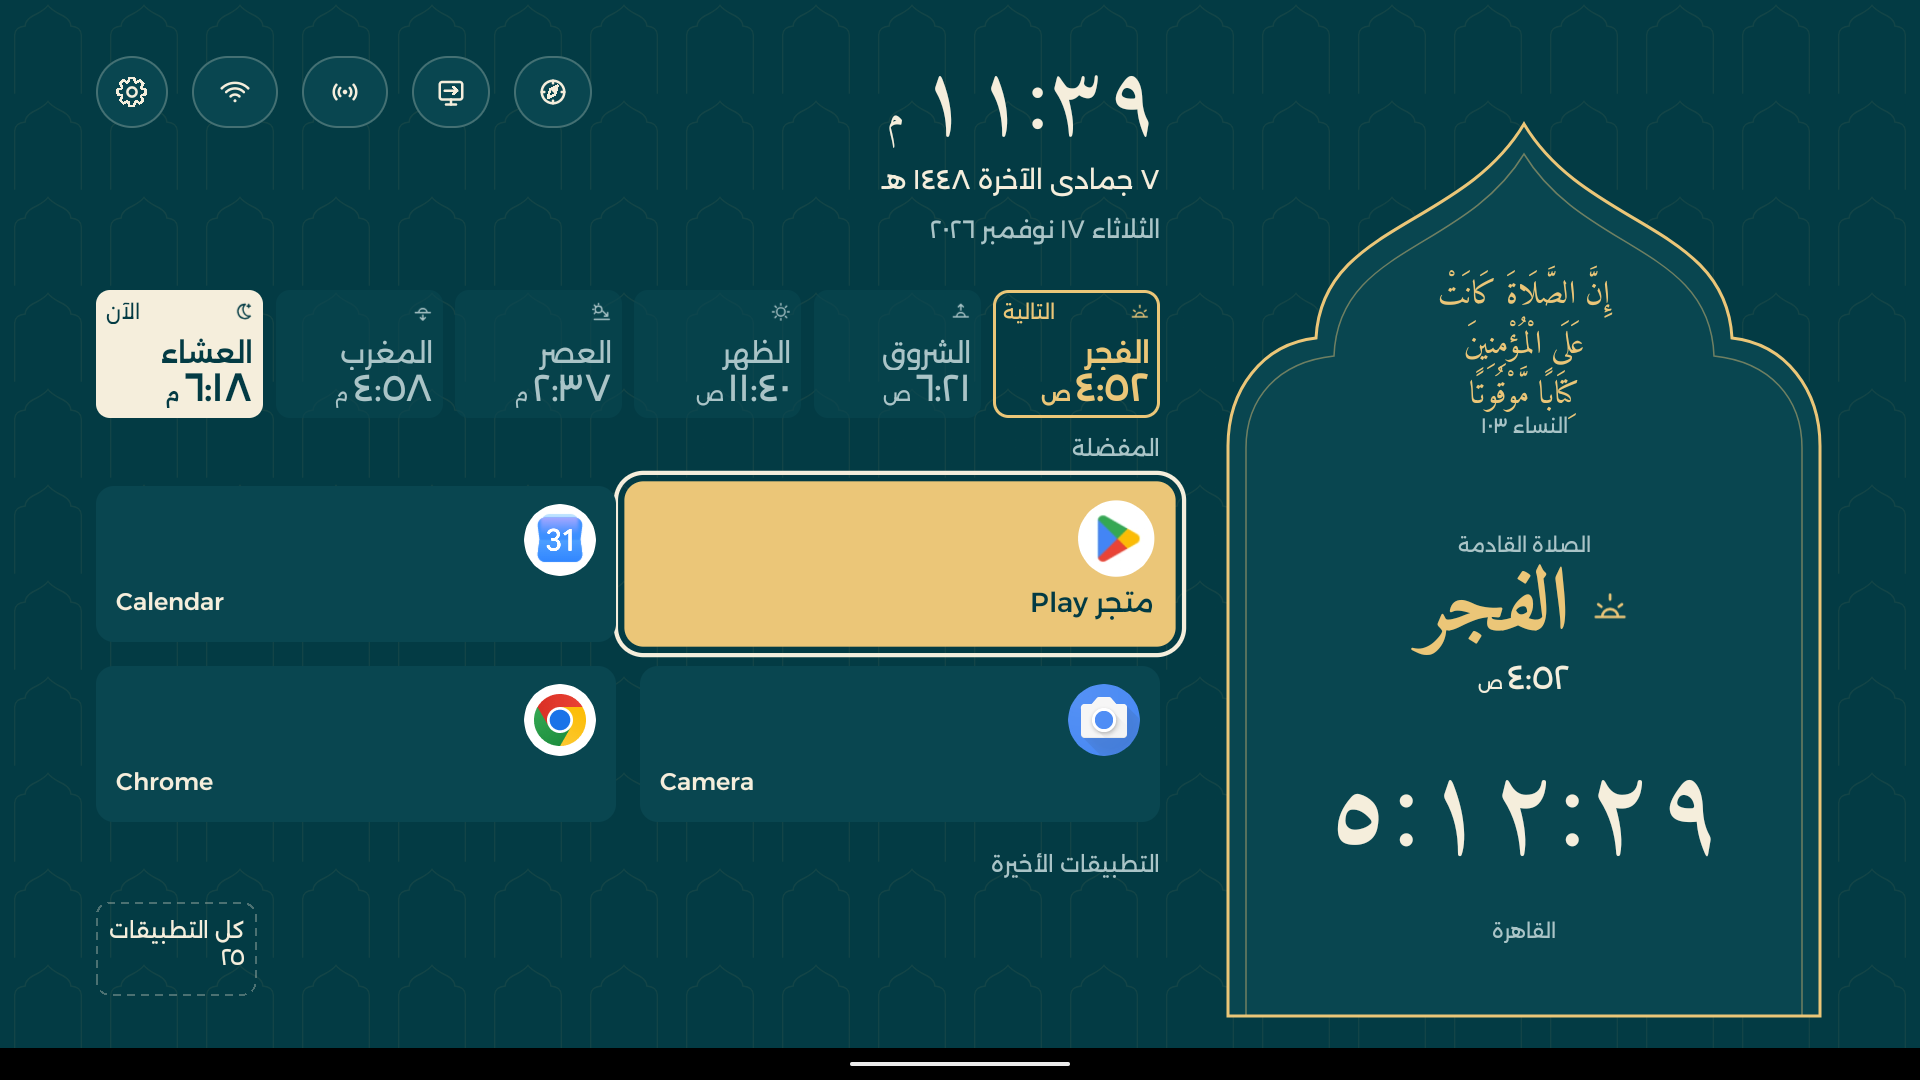
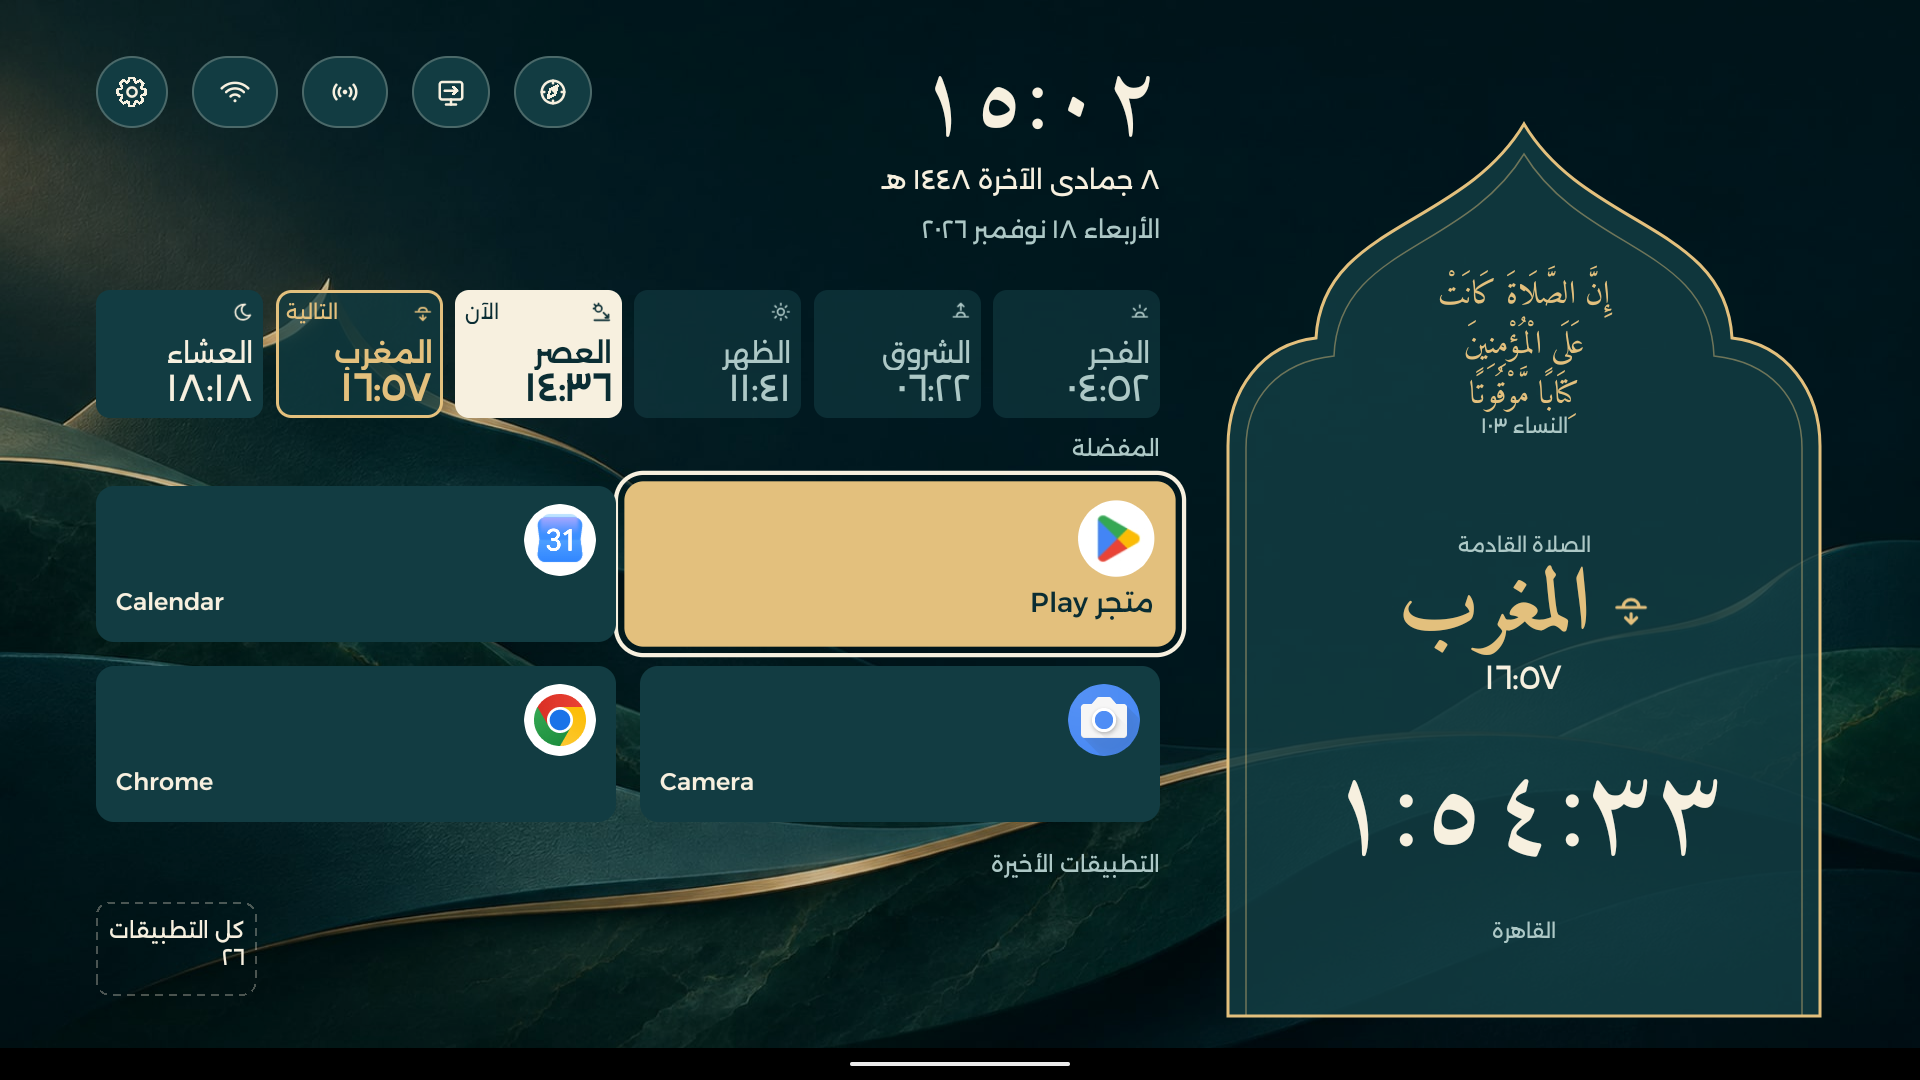
Refresh README with current Miqat branding

diff --git a/docs/WORK.md b/docs/WORK.md
@@ -4,25 +4,25 @@ Updated: 2026-11-18.
 
 ## Approved scope and next action
 
-Remove FFmpeg installation and the audio-processing fixture test from GitHub
-Actions. The owner chose to keep the existing Ubuntu builds, tests and triggers.
-Retain lightweight approved-media hashes and packaged-file checks. Preparation,
-decoding and listening checks remain local when media or preparation code changes.
+Refresh the README for the current Miqat branding. Remove its header icon and
+replace the old Android Home screenshots with the reviewed English/Arabic native
+captures. Keep the README short and identify emulator evidence. Correct the stale
+review-draft claims in the owning design guide; no app or artwork changes.
 
-The change is prepared on `feature/ci-without-ffmpeg`, based on main 5d0e1c2.
-Local workflow/documentation/hash checks passed. Delivery uses a focused PR and
-passing required CI. Follow the owner's standing instruction: use gh, normal-merge
-after required checks pass and sync main. The PR owns CI and delivery receipts.
-No further implementation is planned.
+Work is on `feature/readme-current-brand`, based on main c6ad64f. Check screenshot
+provenance, links, paths and copy, then use gh for the PR. Normal-merge after all
+required checks pass and sync main under the owner's standing instruction. The
+PR owns CI/delivery receipts. No TV operation or release is requested.
 
 ## Delivered and remaining limits
 
-The [website refresh](https://github.com/AbdelrahmanHajjaj/MiqatTV/pull/4) was normally
-merged as 5d0e1c2. [Main validation and Pages](https://github.com/AbdelrahmanHajjaj/MiqatTV/actions/runs/44332260024)
-passed all seven jobs. Public Arabic/English screens and in-place navigation were
-verified in Edge; captures remain under ignored state/.
+The [website refresh](https://github.com/AbdelrahmanHajjaj/MiqatTV/pull/4) is live.
+[PR #5](https://github.com/AbdelrahmanHajjaj/MiqatTV/pull/5) removed FFmpeg processing
+from Actions and recorded the standing gh/merge workflow. It was normally merged
+as c6ad64f, local main was synced, and [post-merge validation/Pages](https://github.com/AbdelrahmanHajjaj/MiqatTV/actions/runs/44349978626)
+passed all seven jobs. Its PR records the native focus-check intermittency and
+single successful retry.
 
-Physical Miqat installation, phone-installer acceptance, settings transfer and
-companion integration remain separate. CI APKs use temporary debug keys. Existing
-build-tool advisories and earlier Android CI intermittency remain documented in
-EVIDENCE.md and PR #2. No release or TV deployment is requested.
+Physical Miqat/installer acceptance, settings transfer, companion integration and
+persistent release signing remain separate. Existing build-tool advisories remain
+in EVIDENCE.md. Raw captures and device details stay under ignored state/.

diff --git a/docs/DESIGN.md b/docs/DESIGN.md
@@ -71,7 +71,7 @@ Tokens and SVG patterns still come from `shared/design/mihrab/`; do not duplicat
 hand-edit their generated Java/XML/CSS outputs. Remaining asset extraction and
 the migration queue are recorded only in `docs/WORK.md`.
 
-## Palette/background refinement (review draft)
+## Palette and background refinement
 
 The default uses deeper petrol, warm gold and ivory. Built-in palettes keep their IDs, with six landscape presets gaining paired
 artwork, names, palettes and surface styles. The others retain distinct mineral/earth/night colors and calmer
@@ -93,14 +93,8 @@ using full-screen proportions on Home and in its appearance preview. This avoids
 the former bright white, densely repeated LG masks. Source SVGs remain white
 alpha masks for Android; never bake a particular theme into their canonical files.
 
-The review gallery compares actual browser renders in Arabic/English, with the
-previous English appearance available for comparison. It is not physical-TV
-acceptance. This draft is intentionally uncommitted pending the owner's review.
-
 Base pattern opacity is 14%, with the existing lighting adjustment; the default repeating tile uses 9% ink. Solid is explicitly
-plain, while Halo/Daylight are light-field styles. The gallery's optional artwork
-detail view uses stronger lines for inspection and is labelled as such; its normal
-view always shows actual app opacity.
+plain, while Halo/Daylight are light-field styles.
 
 Neutral landscape choices use the six local JPEGs in
 `shared/design/assets/backgrounds/`, selected by `appearance.json.scenes`.
@@ -161,11 +155,11 @@ to 85%. The inline editor previews its draft; numeric Back restores that draft,
 and outer Cancel discards it. Apply persists it. A different preset restores 85%;
 clamped selection preserves manual changes.
 
-`shared/design/prayer-icons.json` owns all six symbols. The revised proposal uses
+`shared/design/prayer-icons.json` owns all six symbols. The symbols use
 familiar sun/horizon, rising/setting arrows, an afternoon shadow and a crescent,
 with a consistent 2-unit stroke. Decorative diamond rays were removed after owner
 feedback. Android vectors, browser SVG and LG SVG use the same paths; labels,
-order, accessibility and prayer behavior stay intact. This remains a review draft.
+order, accessibility and prayer behavior stay intact.
 
 ### Second Miqat scene and next-prayer contrast
 

diff --git a/docs/EVIDENCE.md b/docs/EVIDENCE.md
@@ -273,3 +273,18 @@ check and diff checks passed locally. All workflows were scanned to confirm no
 FFmpeg/ffprobe installation, invocation or audio-processing fixture test remains.
 The existing required-job aggregate, build artifacts and publication guards are
 unchanged. The focused PR owns the GitHub validation result.
+
+
+## README branding refresh, 18 November 2026
+
+The README removes its header icon and uses the reviewed PR #3 native Home captures
+in English/Arabic, showing the default Miqat signature scene and current palette.
+These are 1920×1080 API 37 emulator captures, not physical-TV photographs. The
+capture worktree commit a567978 and main c6ad64f have identical Android, installer,
+core, data and design sources. The PNGs are copied unchanged from the reviewed
+captures; no new app build, emulator session or physical-TV operation was needed.
+The design guide's obsolete uncommitted/review-draft claims are removed.
+
+Both PNGs decode, match the reviewed bytes and retain 1920×1080 dimensions.
+Arabic shaping, RTL placement and the current background/prayer symbols were
+visually inspected. Documentation link/path checks and diff checks passed.

diff --git a/README.md b/README.md
@@ -1,8 +1,6 @@
 # Miqat · ميقات
 
-<p align="center"><img src="shared/design/branding/miqat-tv-v1/miqat-tv-logo-master.png" width="240" alt="Miqat · ميقات"></p>
-
-A TV home screen with prayer times, adhan and Quran radio, in Arabic and English.
+Prayer times, adhan and Quran radio for the TV at home, in Arabic and English.
 
 [Try the interactive preview](https://abdelrahmanhajjaj.github.io/MiqatTV/) · [English](https://abdelrahmanhajjaj.github.io/MiqatTV/en/)
 
@@ -10,12 +8,13 @@ A TV home screen with prayer times, adhan and Quran radio, in Arabic and English
 
 - Prayer times work offline, with city, calculation method and individual adjustments.
 - Adhan, reminders, Qibla, Friday and Ramadan displays.
-- Themes, Home customization and adjustable interface size.
+- Theme presets, original artwork, Home layouts and adjustable interface size.
 - Controls designed for a TV remote, with Arabic and English layouts.
 
 ## Screenshots
 
-Android TV app running in a 1920 × 1080 Android emulator.
+Android TV app with the default Miqat signature artwork and petrol/gold palette.
+1920 × 1080 Android emulator captures.
 
 **English Home**
 

diff --git a/CHANGELOG.md b/CHANGELOG.md
@@ -2,6 +2,8 @@
 
 ## Unreleased
 
+- Refresh the README with current Miqat Android screenshots and remove its header icon.
+
 - Keep FFmpeg audio-processing tests local; CI retains approved media checksum checks.
 
 - Refresh the bilingual website with Miqat branding, current artwork and themes.
